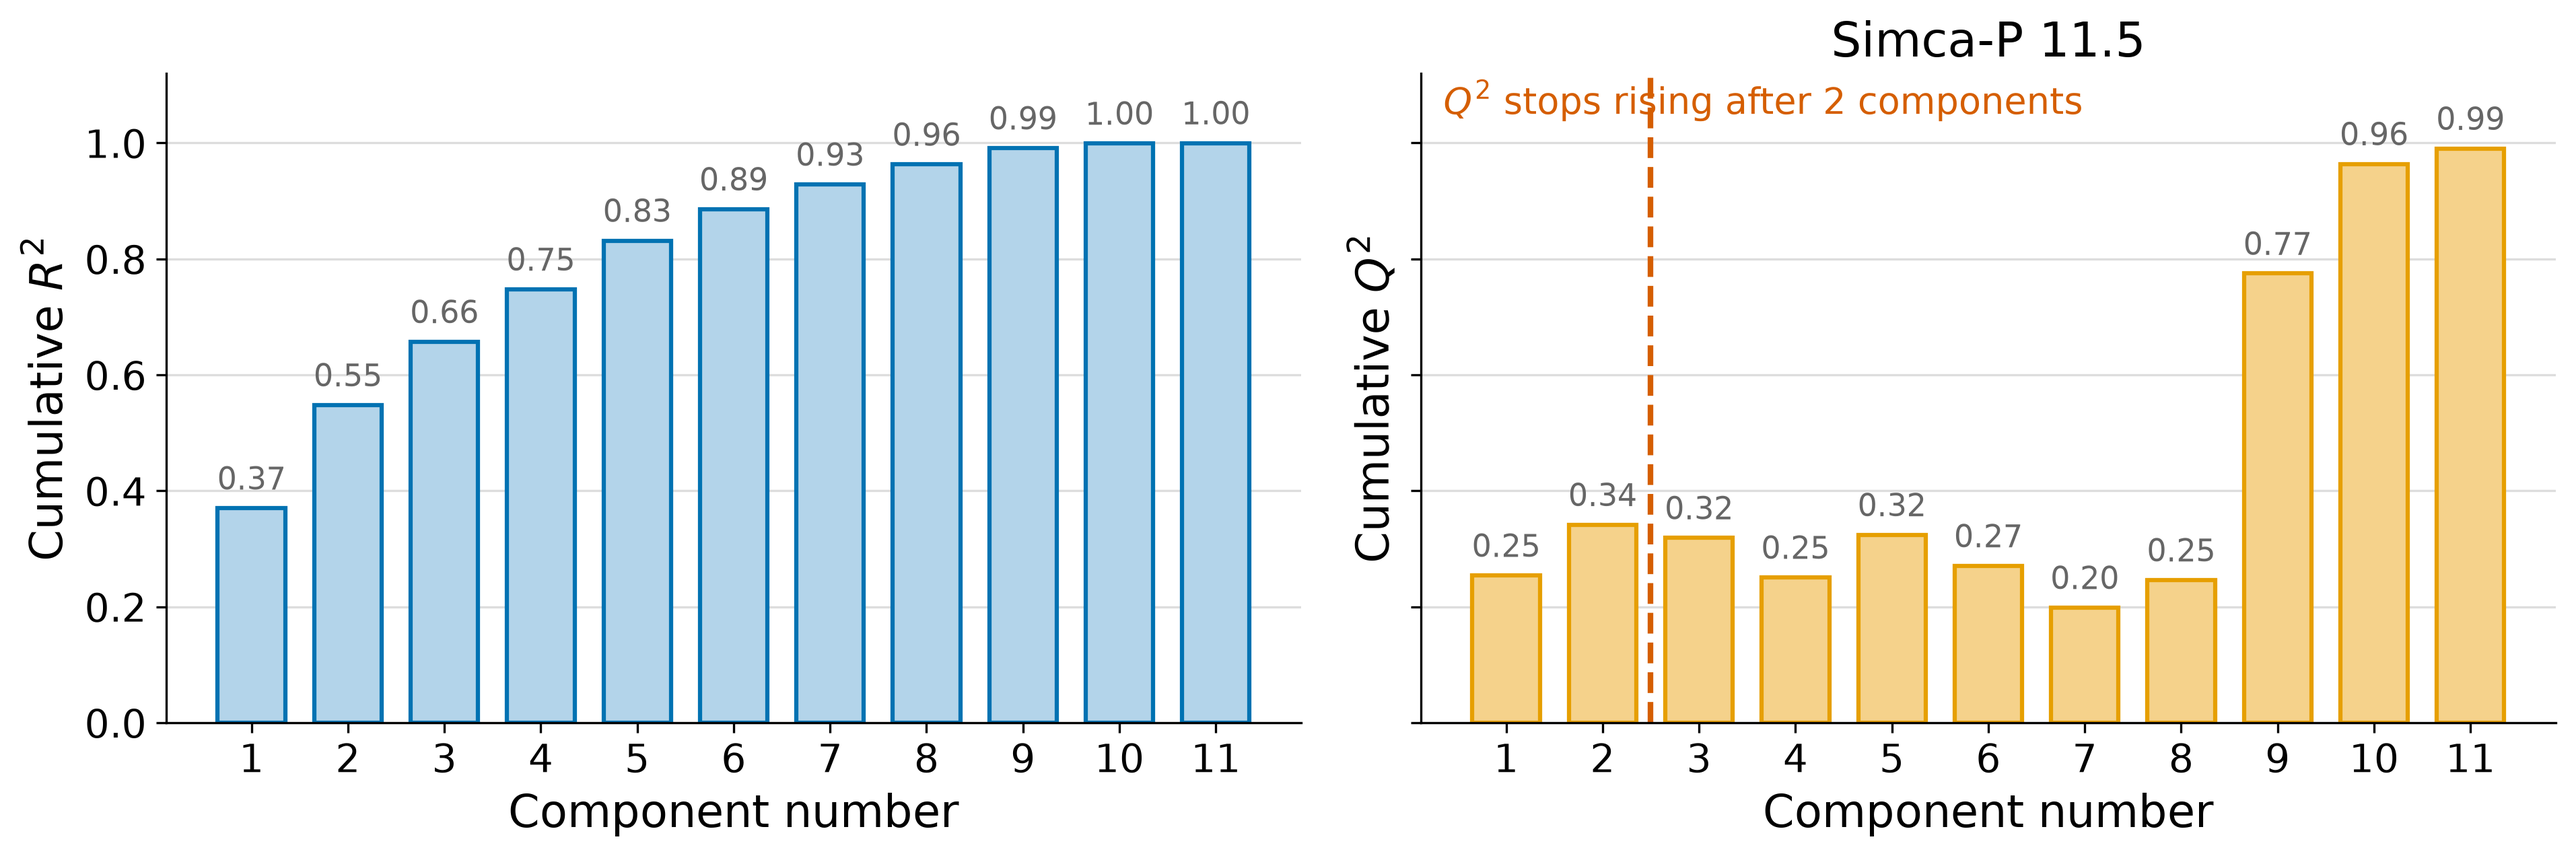
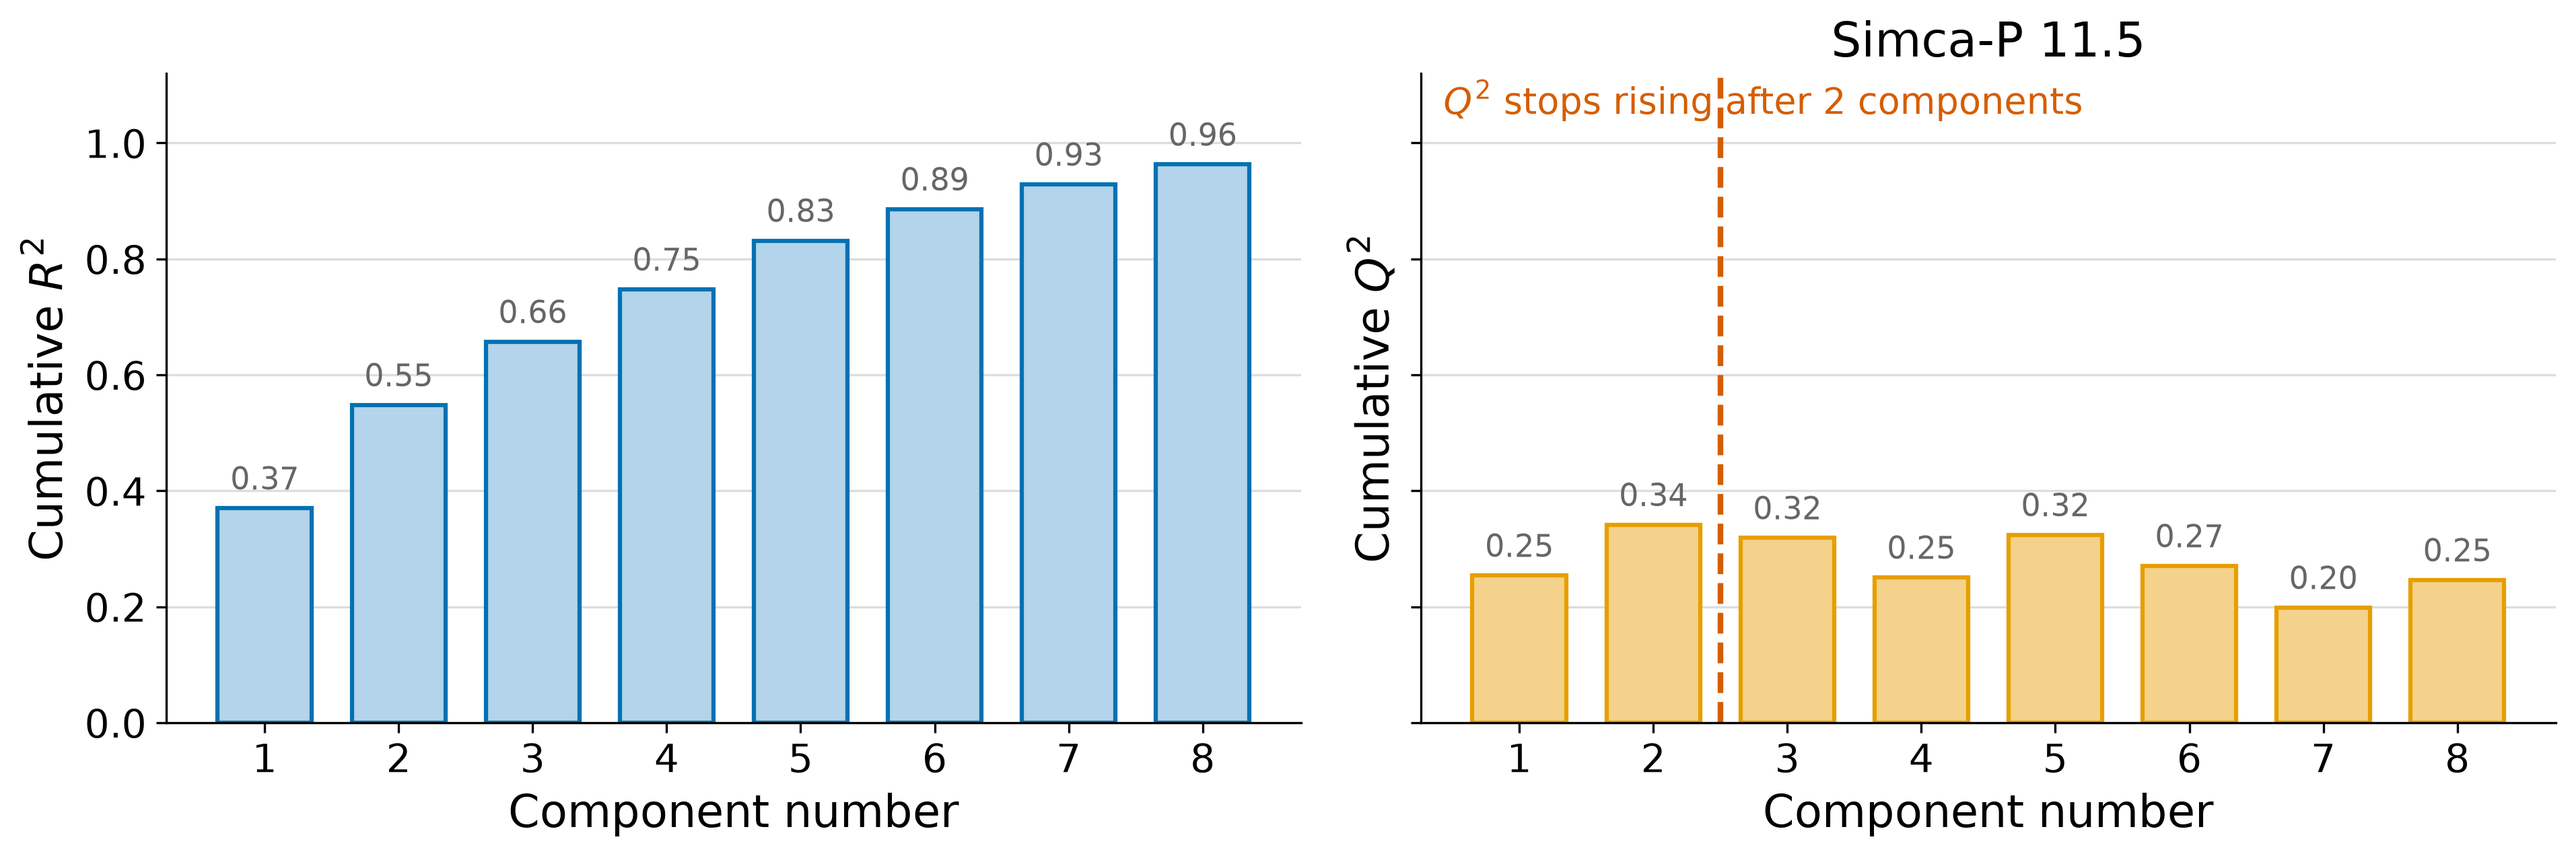
Stop the embedded R2/Q2 figure at eight components, as the original does
The three images this script writes are not all the same. The two
package-specific ones run to eleven components, which is what
barplot-for-R2-and-Q2.R produces and what their committed originals
show. The unsuffixed one, which is the file the chapter embeds, stops
at eight, and no script produced it. The redraw was writing all three
at eleven.

The difference is not cosmetic. Simca's Q-squared for components 9, 10
and 11 is 0.77, 0.96 and 0.99: the LDPE data runs out of structure, the
model starts fitting what little is left, and cross-validation predicts
it almost exactly. Those three bars tower over the eight before them
and bury what the figure is for, which is that Q-squared stops
rewarding components after the second while R-squared keeps climbing.

The unsuffixed image now stops at eight. The two package images keep
all eleven, matching their own originals. The values are untouched.

One difference from the original remains: it marks the stopping point
with two dashed lines and no explanation of what they mean, where this
draws one line and says what it marks.

Changed region(s): [[0.0933, 0.1224, 0.4975, 0.9176], [0.5597, 0.1224, 0.995, 0.9176], [0.6841, 0.8565, 0.7152, 0.8871]]

diff --git a/pca/pca_diagnostic_figures.py b/pca/pca_diagnostic_figures.py
@@ -135,16 +135,19 @@ def scree_plots(fraction: np.ndarray, outdir: pathlib.Path) -> None:
         save(fig, outdir, name)
 
 
-def r2_q2_plot(package: str, outdir: pathlib.Path, name: str) -> None:
-    q2 = Q2[package]
-    components = np.arange(1, len(R2) + 1)
+def r2_q2_plot(package: str, outdir: pathlib.Path, name: str, shown: int = 11) -> None:
+    """One R-squared / Q-squared pair. ``shown`` is how many components
+    to plot, of the eleven each package reported."""
+    q2 = Q2[package][:shown]
+    r2 = R2[:shown]
+    components = np.arange(1, shown + 1)
     stop = STOP_AFTER[package]
     print(f"{package}: R² goes {100 * R2[2]:.0f}% to {100 * R2[3]:.0f}% "
           f"on the 4th component, while Q² goes {100 * q2[2]:.0f}% to {100 * q2[3]:.0f}%")
 
     fig, axes = plt.subplots(1, 2, figsize=(13, 4.5), sharey=True)
     for ax, values, label, fill, edge in (
-        (axes[0], R2, "Cumulative $R^2$", BLUE_FILL, BLUE),
+        (axes[0], r2, "Cumulative $R^2$", BLUE_FILL, BLUE),
         (axes[1], q2, "Cumulative $Q^2$", ORANGE_FILL, ORANGE),
     ):
         ax.grid(axis="y", color=GRID, linewidth=0.8)
@@ -171,8 +174,17 @@ def r2_q2_plot(package: str, outdir: pathlib.Path, name: str) -> None:
 def main(outdir: pathlib.Path) -> None:
     scree_plots(eigenvalues(distillation_tower()), outdir)
     # The chapter embeds the unsuffixed name; it is the Simca pair, whose
-    # numbers the surrounding prose quotes.
-    r2_q2_plot("Simca-P 11.5", outdir, "barplot-for-R2-and-Q2.png")
+    # numbers the surrounding prose quotes. That committed image stops at
+    # eight components, where the two package-specific images run to
+    # eleven, and the difference is not cosmetic: Simca's Q-squared for
+    # components 9 to 11 is 0.77, 0.96 and 0.99. The distillation data has
+    # eleven variables, so by the ninth component the model is fitting
+    # what little is left and cross-validation predicts it almost exactly.
+    # Those three bars tower over the rest and bury the point the figure
+    # is making, that Q-squared stops rewarding components after the
+    # second. The two package images keep all eleven, as their originals
+    # do.
+    r2_q2_plot("Simca-P 11.5", outdir, "barplot-for-R2-and-Q2.png", shown=8)
     r2_q2_plot("Simca-P 11.5", outdir, "barplot-for-R2-and-Q2-Simca.png")
     r2_q2_plot("ProSensus 11.08", outdir, "barplot-for-R2-and-Q2-ProSensus.png")
 
